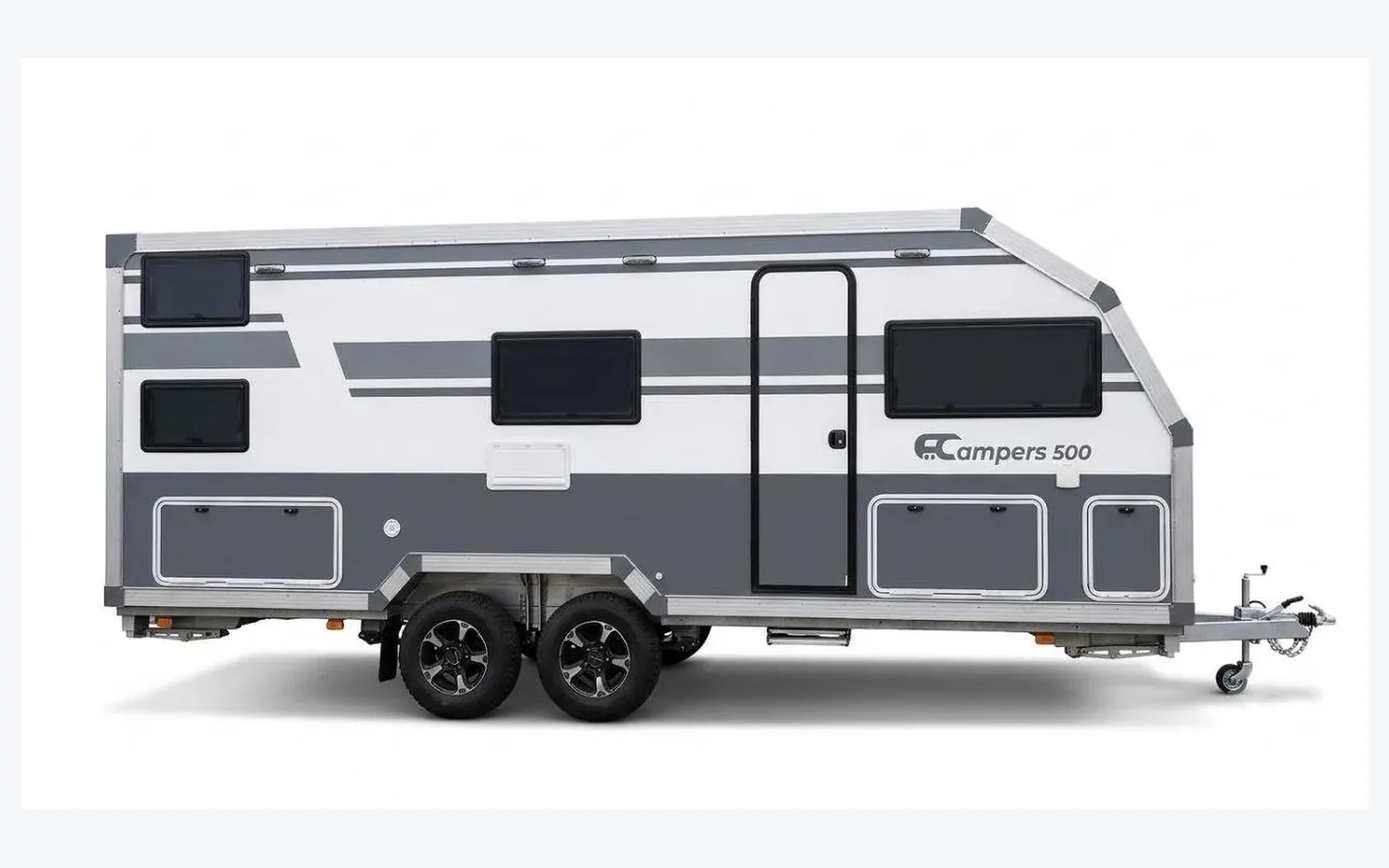
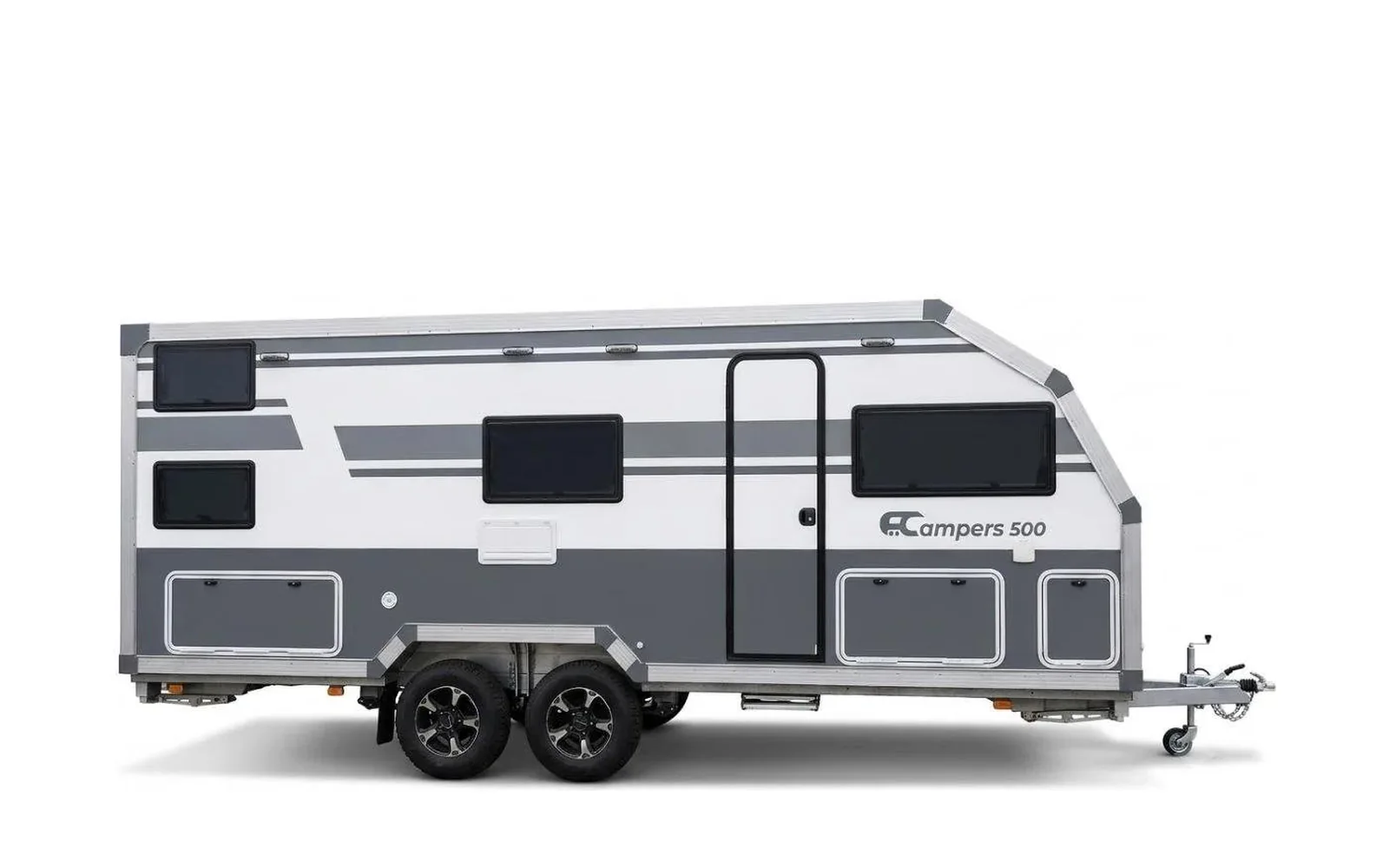
Series 500: reframe new photo to match series cards

diff --git a/configurator/index.html b/configurator/index.html
@@ -421,7 +421,7 @@ button{font:inherit;cursor:pointer}
 </div>
 <div id="printArea" class="print-only"></div>
 <script>
-const DATA = {"series": [{"code": "300", "module": 300, "price": 1750000, "features": ["Модуль 300 см", "2 боковых упора", "1 боковое окно", "Холодильник 50 л", "Мебель в базовой комплектации"], "photo": "assets/model-300.webp"}, {"code": "400", "module": 400, "price": 1950000, "features": ["Модуль 400 см", "2 боковых упора", "2 боковых окна", "Холодильник 65 л", "Мебель в базовой комплектации"], "photo": "assets/model-400.webp"}, {"code": "500", "module": 500, "price": 2950000, "features": ["Модуль 500 см", "4 боковых упора", "2 боковых окна", "Холодильник 65 л", "Мебель в базовой комплектации"], "photo": "assets/model-500-2.webp"}], "categories": [{"name": "Внешнее оборудование", "icon": "car", "options": [{"id": "o1", "name": "Толщина стены 50 мм", "unit": "шт", "prices": [144000, 144000, 144000], "note": ""}, {"id": "o2", "name": "Изменение длины, шаг 200 мм", "unit": "шаг", "prices": [35000, 35000, 35000], "note": ""}, {"id": "o3", "name": "Независимая подвеска на Ш-образных рычагах", "unit": "компл", "prices": [244000, 342000, 640000], "note": ""}, {"id": "o4", "name": "Пневмоподвеска, 1 ось / 2 подушки", "unit": "компл", "prices": [140000, 140000, 140000], "note": ""}, {"id": "o5", "name": "Пневмоподвеска, 2 оси / 4 подушки", "unit": "компл", "prices": [226500, 226500, 226500], "note": ""}, {"id": "o6", "name": "Колёса R16C 195/70, штампованные диски", "unit": "компл", "prices": [32000, 0, 0], "note": "для серии 300; для 400/500 — по запросу"}, {"id": "o7", "name": "Американский квадрат сзади, РДПП шасси", "unit": "шт", "prices": [38000, 38000, 38000], "note": ""}, {"id": "o8", "name": "Американский квадрат сзади, Ш-образные рычаги", "unit": "шт", "prices": [24000, 24000, 24000], "note": ""}, {"id": "o9", "name": "Боковые упоры, +2 шт", "unit": "шт", "prices": [22000, 22000, 22000], "note": ""}, {"id": "o10", "name": "Грузовой люк 600×320 мм", "unit": "шт", "prices": [24000, 24000, 24000], "note": ""}, {"id": "o11", "name": "Ступень механическая", "unit": "шт", "prices": [28000, 28000, 28000], "note": ""}, {"id": "o12", "name": "Кофр передний сэндвич для 2 угловых подвесок", "unit": "шт", "prices": [48000, 48000, 48000], "note": ""}]}, {"name": "Окна и люки", "icon": "window", "options": [{"id": "o13", "name": "Лобовое окно 1100×500", "unit": "шт", "max": 1, "prices": [62000, 62000, 62000], "note": ""}, {"id": "o14", "name": "Боковое / заднее окно 900×450", "unit": "шт", "prices": [45000, 45000, 45000], "note": ""}, {"id": "o15", "name": "Заднее окно / окно СУ 500×350", "unit": "шт", "max": 1, "prices": [35000, 35000, 35000], "note": ""}, {"id": "o16", "name": "Окно кухонной зоны 500×350", "unit": "шт", "prices": [37000, 37000, 37000], "note": ""}, {"id": "o17", "name": "Люк 400×400 накрышный, подсветка, москитная сетка", "unit": "шт", "prices": [26000, 26000, 26000], "note": ""}, {"id": "o18", "name": "Люк 700×500 накрышный, подсветка, москитная сетка", "unit": "шт", "prices": [59000, 59000, 59000], "note": ""}, {"id": "o19", "name": "Дверь с окном и москитной сеткой", "unit": "шт", "prices": [88000, 88000, 88000], "note": ""}, {"id": "o20", "name": "Москитная сетка сдвижная на дверь", "unit": "шт", "prices": [24000, 24000, 24000], "note": ""}]}, {"name": "Маркизы и кондиционеры", "icon": "awning", "options": [{"id": "o21", "name": "Маркиза кассетная, встроенные упоры", "unit": "шт", "prices": [156000, 176000, 0], "note": "500 — по запросу"}, {"id": "o22", "name": "Электропривод маркизы", "unit": "шт", "prices": [60000, 60000, 60000], "note": ""}, {"id": "o23", "name": "Кондиционер накрышный 1,5 кВт, 12 В", "unit": "шт", "prices": [68000, 68000, 68000], "note": ""}, {"id": "o24", "name": "Кондиционер инверторный накрышный 2,5 кВт, 12 В", "unit": "шт", "prices": [84000, 84000, 84000], "note": ""}]}, {"name": "Навесное оборудование", "icon": "tools", "options": [{"id": "o25", "name": "Столик уличный белый 800×450", "unit": "шт", "prices": [30800, 30800, 30800], "note": ""}, {"id": "o26", "name": "Розетка газовая под быстросъём", "unit": "шт", "prices": [22000, 22000, 22000], "note": ""}, {"id": "o27", "name": "Душ наружный", "unit": "шт", "prices": [14500, 14500, 14500], "note": ""}, {"id": "o28", "name": "Велобагажник на 2 велосипеда", "unit": "шт", "prices": [57200, 57200, 57200], "note": ""}, {"id": "o29", "name": "Ликпаз, 1 п.м", "unit": "п.м", "prices": [7000, 7000, 7000], "note": ""}]}, {"name": "Электрооборудование", "icon": "bolt", "options": [{"id": "o30", "name": "Солнечная панель 440–500 Вт с контроллером", "unit": "компл", "prices": [55000, 55000, 55000], "note": ""}, {"id": "o31", "name": "АКБ LiFePO4 280–310 Ач", "unit": "шт", "prices": [78000, 78000, 78000], "note": ""}, {"id": "o32", "name": "АКБ LiFePO4 150 Ач", "unit": "шт", "prices": [45000, 45000, 45000], "note": ""}, {"id": "o33", "name": "Внешняя розетка 220 В + 12 В + USB", "unit": "шт", "prices": [9200, 9200, 9200], "note": ""}, {"id": "o34", "name": "Задняя камера", "unit": "шт", "prices": [32000, 32000, 32000], "note": ""}, {"id": "o35", "name": "Внешняя газовая розетка", "unit": "шт", "prices": [7500, 7500, 7500], "note": ""}, {"id": "o36", "name": "Инвертор 1000 Вт (номинал 500 Вт)", "unit": "шт", "prices": [19000, 19000, 19000], "note": ""}, {"id": "o37", "name": "Инвертор 3000 Вт (номинал 1500 Вт)", "unit": "шт", "prices": [26000, 26000, 26000], "note": ""}, {"id": "o38", "name": "Инвертор 6000 Вт (номинал 3000 Вт)", "unit": "шт", "prices": [37000, 37000, 37000], "note": ""}]}, {"name": "Кухонная зона", "icon": "kitchen", "options": [{"id": "o39", "name": "Газовая конфорка, 1 шт", "unit": "шт", "prices": [24000, 24000, 24000], "note": ""}, {"id": "o40", "name": "Индукционная конфорка, 1 шт", "unit": "шт", "prices": [24000, 24000, 24000], "note": ""}, {"id": "o41", "name": "Две газовые конфорки", "unit": "компл", "prices": [32000, 32000, 32000], "note": ""}, {"id": "o42", "name": "Раковина с крышкой", "unit": "шт", "prices": [24000, 24000, 24000], "note": ""}, {"id": "o43", "name": "Вытяжка кухонная", "unit": "шт", "prices": [24200, 24200, 24200], "note": ""}, {"id": "o44", "name": "СВЧ-печь", "unit": "шт", "prices": [25000, 25000, 25000], "note": ""}, {"id": "o45", "name": "Стиральная машина", "unit": "шт", "prices": [55000, 55000, 55000], "note": ""}, {"id": "o46", "name": "Посудомоечная машина", "unit": "шт", "prices": [45000, 45000, 45000], "note": ""}]}, {"name": "Отопление, вода, газ", "icon": "drop", "options": [{"id": "o47", "name": "Комби-отопитель дизель + 220 В (отопление + бойлер)", "unit": "компл", "prices": [228000, 228000, 228000], "note": ""}, {"id": "o48", "name": "Бак дизель 22 л с датчиком", "unit": "шт", "prices": [38000, 38000, 38000], "note": ""}, {"id": "o49", "name": "Чехол для насоса отопителя (тихий)", "unit": "шт", "prices": [5600, 5600, 5600], "note": ""}, {"id": "o50", "name": "Насос 18,2 л/мин для забора воды снаружи", "unit": "шт", "prices": [28000, 28000, 28000], "note": ""}, {"id": "o51", "name": "Гидроаккумулятор 3 л", "unit": "шт", "prices": [16000, 16000, 16000], "note": ""}, {"id": "o52", "name": "Датчик уровня воды в баке", "unit": "шт", "prices": [15000, 15000, 15000], "note": ""}, {"id": "o53", "name": "Баллон композит 12 л", "unit": "шт", "prices": [16000, 16000, 16000], "note": ""}, {"id": "o54", "name": "Крепление баллона", "unit": "шт", "prices": [0, 0, 0], "note": "цена по запросу"}]}, {"name": "Санузел", "icon": "shower", "options": [{"id": "o55", "name": "Раковина откидная", "unit": "шт", "prices": [36000, 36000, 36000], "note": ""}, {"id": "o56", "name": "Раковина треугольная угловая", "unit": "шт", "prices": [36000, 36000, 36000], "note": ""}, {"id": "o57", "name": "Шкафчик на стену, пластик", "unit": "шт", "prices": [12000, 12000, 12000], "note": ""}, {"id": "o58", "name": "Раковина базовая прямоугольная", "unit": "шт", "prices": [18000, 18000, 18000], "note": ""}, {"id": "o59", "name": "Унитаз кассетный", "unit": "шт", "prices": [68000, 68000, 68000], "note": ""}, {"id": "o60", "name": "Унитаз портативный", "unit": "шт", "prices": [22000, 22000, 22000], "note": ""}]}, {"name": "Свет, розетки, ТВ, интернет", "icon": "lamp", "options": [{"id": "o61", "name": "Точечный светильник", "unit": "шт", "prices": [3500, 3500, 3500], "note": ""}, {"id": "o62", "name": "Лампа диодная круглая", "unit": "шт", "prices": [1800, 1800, 1800], "note": ""}, {"id": "o63", "name": "Розетка 220 В", "unit": "шт", "prices": [1800, 1800, 1800], "note": ""}, {"id": "o64", "name": "Розетка USB", "unit": "шт", "prices": [1500, 1500, 1500], "note": ""}, {"id": "o65", "name": "Розетка 12 В", "unit": "шт", "prices": [1500, 1500, 1500], "note": ""}, {"id": "o66", "name": "ТВ 24 дюйма, 12 В", "unit": "шт", "prices": [32000, 32000, 32000], "note": ""}, {"id": "o67", "name": "Крепление ТВ", "unit": "шт", "prices": [12000, 12000, 12000], "note": ""}, {"id": "o68", "name": "Роутер Wi-Fi 12 В", "unit": "шт", "prices": [6500, 6500, 6500], "note": ""}]}, {"name": "Напольное покрытие и шторки", "icon": "floor", "options": [{"id": "o69", "name": "Ева", "unit": "компл", "prices": [16000, 16000, 16000], "note": ""}, {"id": "o70", "name": "Кварцвинил", "unit": "компл", "prices": [56000, 56000, 56000], "note": ""}, {"id": "o71", "name": "Линолеум", "unit": "компл", "prices": [36000, 36000, 36000], "note": ""}, {"id": "o72", "name": "Шторка столовая группа", "unit": "шт", "prices": [14000, 14000, 14000], "note": ""}, {"id": "o73", "name": "Шторка детская зона", "unit": "шт", "prices": [14000, 14000, 14000], "note": ""}]}], "base": [{"name": "Шасси с горячим цинкованием", "q": [1, 1, 1], "note": "общая база"}, {"name": "Толщина стен 30 мм", "q": [1, 1, 1], "note": ""}, {"name": "Независимая рычажно-демпферная подвеска на полимерных элементах", "q": [1, 1, 1], "note": ""}, {"name": "Колёса R13C 185/70 (4×98), штампованные диски", "q": [1, 1, 1], "note": ""}, {"name": "Боковые упоры (опорные лапы)", "q": [2, 2, 4], "note": "шт"}, {"name": "Боковое окно 900×450", "q": [1, 2, 2], "note": "шт"}, {"name": "Люк 400×400, штора блэк-аут, москитная сетка", "q": [1, 1, 1], "note": "потолок столовой группы"}, {"name": "Люк 280×280, вентилятор, свет, москитная сетка", "q": [1, 1, 1], "note": "санузел"}, {"name": "Дверь сэндвич 30 мм, без окна", "q": [1, 1, 1], "note": ""}, {"name": "Внешняя розетка 220 В: вход, зарядка каравана", "q": [1, 1, 1], "note": ""}, {"name": "Вход для заправки воды", "q": [1, 1, 1], "note": ""}, {"name": "Подготовка под подключение солнечной панели", "q": [1, 1, 1], "note": ""}, {"name": "АКБ 150 Ач Pb", "q": [1, 1, 1], "note": ""}, {"name": "Зарядное устройство 20 А", "q": [1, 1, 1], "note": ""}, {"name": "Холодильник 50 л", "q": [1, 0, 0], "note": "только 300"}, {"name": "Холодильник 65 л", "q": [0, 1, 1], "note": "400 и 500"}, {"name": "Автономный дизельный отопитель 5 кВт", "q": [1, 1, 1], "note": ""}, {"name": "Бак дизель 15 л, встроен в шасси", "q": [1, 1, 1], "note": ""}, {"name": "Бойлер 12/220 В, 10 л", "q": [1, 1, 1], "note": ""}, {"name": "Бак для воды 65 л", "q": [1, 1, 1], "note": ""}, {"name": "Насос 11,7 л/мин с реле давления", "q": [1, 1, 1], "note": ""}, {"name": "Дверь санузла, глухая", "q": [1, 1, 1], "note": ""}, {"name": "Душевой поддон", "q": [1, 1, 1], "note": ""}, {"name": "Розетка 220 В", "q": [1, 1, 1], "note": ""}, {"name": "Розетка 12 В", "q": [1, 1, 1], "note": ""}, {"name": "Комбинация мебели: столовая группа, шкаф, кухня", "q": [1, 1, 1], "note": "цвет — по выбору"}]};
+const DATA = {"series": [{"code": "300", "module": 300, "price": 1750000, "features": ["Модуль 300 см", "2 боковых упора", "1 боковое окно", "Холодильник 50 л", "Мебель в базовой комплектации"], "photo": "assets/model-300.webp"}, {"code": "400", "module": 400, "price": 1950000, "features": ["Модуль 400 см", "2 боковых упора", "2 боковых окна", "Холодильник 65 л", "Мебель в базовой комплектации"], "photo": "assets/model-400.webp"}, {"code": "500", "module": 500, "price": 2950000, "features": ["Модуль 500 см", "4 боковых упора", "2 боковых окна", "Холодильник 65 л", "Мебель в базовой комплектации"], "photo": "assets/model-500-2.webp?v=2"}], "categories": [{"name": "Внешнее оборудование", "icon": "car", "options": [{"id": "o1", "name": "Толщина стены 50 мм", "unit": "шт", "prices": [144000, 144000, 144000], "note": ""}, {"id": "o2", "name": "Изменение длины, шаг 200 мм", "unit": "шаг", "prices": [35000, 35000, 35000], "note": ""}, {"id": "o3", "name": "Независимая подвеска на Ш-образных рычагах", "unit": "компл", "prices": [244000, 342000, 640000], "note": ""}, {"id": "o4", "name": "Пневмоподвеска, 1 ось / 2 подушки", "unit": "компл", "prices": [140000, 140000, 140000], "note": ""}, {"id": "o5", "name": "Пневмоподвеска, 2 оси / 4 подушки", "unit": "компл", "prices": [226500, 226500, 226500], "note": ""}, {"id": "o6", "name": "Колёса R16C 195/70, штампованные диски", "unit": "компл", "prices": [32000, 0, 0], "note": "для серии 300; для 400/500 — по запросу"}, {"id": "o7", "name": "Американский квадрат сзади, РДПП шасси", "unit": "шт", "prices": [38000, 38000, 38000], "note": ""}, {"id": "o8", "name": "Американский квадрат сзади, Ш-образные рычаги", "unit": "шт", "prices": [24000, 24000, 24000], "note": ""}, {"id": "o9", "name": "Боковые упоры, +2 шт", "unit": "шт", "prices": [22000, 22000, 22000], "note": ""}, {"id": "o10", "name": "Грузовой люк 600×320 мм", "unit": "шт", "prices": [24000, 24000, 24000], "note": ""}, {"id": "o11", "name": "Ступень механическая", "unit": "шт", "prices": [28000, 28000, 28000], "note": ""}, {"id": "o12", "name": "Кофр передний сэндвич для 2 угловых подвесок", "unit": "шт", "prices": [48000, 48000, 48000], "note": ""}]}, {"name": "Окна и люки", "icon": "window", "options": [{"id": "o13", "name": "Лобовое окно 1100×500", "unit": "шт", "max": 1, "prices": [62000, 62000, 62000], "note": ""}, {"id": "o14", "name": "Боковое / заднее окно 900×450", "unit": "шт", "prices": [45000, 45000, 45000], "note": ""}, {"id": "o15", "name": "Заднее окно / окно СУ 500×350", "unit": "шт", "max": 1, "prices": [35000, 35000, 35000], "note": ""}, {"id": "o16", "name": "Окно кухонной зоны 500×350", "unit": "шт", "prices": [37000, 37000, 37000], "note": ""}, {"id": "o17", "name": "Люк 400×400 накрышный, подсветка, москитная сетка", "unit": "шт", "prices": [26000, 26000, 26000], "note": ""}, {"id": "o18", "name": "Люк 700×500 накрышный, подсветка, москитная сетка", "unit": "шт", "prices": [59000, 59000, 59000], "note": ""}, {"id": "o19", "name": "Дверь с окном и москитной сеткой", "unit": "шт", "prices": [88000, 88000, 88000], "note": ""}, {"id": "o20", "name": "Москитная сетка сдвижная на дверь", "unit": "шт", "prices": [24000, 24000, 24000], "note": ""}]}, {"name": "Маркизы и кондиционеры", "icon": "awning", "options": [{"id": "o21", "name": "Маркиза кассетная, встроенные упоры", "unit": "шт", "prices": [156000, 176000, 0], "note": "500 — по запросу"}, {"id": "o22", "name": "Электропривод маркизы", "unit": "шт", "prices": [60000, 60000, 60000], "note": ""}, {"id": "o23", "name": "Кондиционер накрышный 1,5 кВт, 12 В", "unit": "шт", "prices": [68000, 68000, 68000], "note": ""}, {"id": "o24", "name": "Кондиционер инверторный накрышный 2,5 кВт, 12 В", "unit": "шт", "prices": [84000, 84000, 84000], "note": ""}]}, {"name": "Навесное оборудование", "icon": "tools", "options": [{"id": "o25", "name": "Столик уличный белый 800×450", "unit": "шт", "prices": [30800, 30800, 30800], "note": ""}, {"id": "o26", "name": "Розетка газовая под быстросъём", "unit": "шт", "prices": [22000, 22000, 22000], "note": ""}, {"id": "o27", "name": "Душ наружный", "unit": "шт", "prices": [14500, 14500, 14500], "note": ""}, {"id": "o28", "name": "Велобагажник на 2 велосипеда", "unit": "шт", "prices": [57200, 57200, 57200], "note": ""}, {"id": "o29", "name": "Ликпаз, 1 п.м", "unit": "п.м", "prices": [7000, 7000, 7000], "note": ""}]}, {"name": "Электрооборудование", "icon": "bolt", "options": [{"id": "o30", "name": "Солнечная панель 440–500 Вт с контроллером", "unit": "компл", "prices": [55000, 55000, 55000], "note": ""}, {"id": "o31", "name": "АКБ LiFePO4 280–310 Ач", "unit": "шт", "prices": [78000, 78000, 78000], "note": ""}, {"id": "o32", "name": "АКБ LiFePO4 150 Ач", "unit": "шт", "prices": [45000, 45000, 45000], "note": ""}, {"id": "o33", "name": "Внешняя розетка 220 В + 12 В + USB", "unit": "шт", "prices": [9200, 9200, 9200], "note": ""}, {"id": "o34", "name": "Задняя камера", "unit": "шт", "prices": [32000, 32000, 32000], "note": ""}, {"id": "o35", "name": "Внешняя газовая розетка", "unit": "шт", "prices": [7500, 7500, 7500], "note": ""}, {"id": "o36", "name": "Инвертор 1000 Вт (номинал 500 Вт)", "unit": "шт", "prices": [19000, 19000, 19000], "note": ""}, {"id": "o37", "name": "Инвертор 3000 Вт (номинал 1500 Вт)", "unit": "шт", "prices": [26000, 26000, 26000], "note": ""}, {"id": "o38", "name": "Инвертор 6000 Вт (номинал 3000 Вт)", "unit": "шт", "prices": [37000, 37000, 37000], "note": ""}]}, {"name": "Кухонная зона", "icon": "kitchen", "options": [{"id": "o39", "name": "Газовая конфорка, 1 шт", "unit": "шт", "prices": [24000, 24000, 24000], "note": ""}, {"id": "o40", "name": "Индукционная конфорка, 1 шт", "unit": "шт", "prices": [24000, 24000, 24000], "note": ""}, {"id": "o41", "name": "Две газовые конфорки", "unit": "компл", "prices": [32000, 32000, 32000], "note": ""}, {"id": "o42", "name": "Раковина с крышкой", "unit": "шт", "prices": [24000, 24000, 24000], "note": ""}, {"id": "o43", "name": "Вытяжка кухонная", "unit": "шт", "prices": [24200, 24200, 24200], "note": ""}, {"id": "o44", "name": "СВЧ-печь", "unit": "шт", "prices": [25000, 25000, 25000], "note": ""}, {"id": "o45", "name": "Стиральная машина", "unit": "шт", "prices": [55000, 55000, 55000], "note": ""}, {"id": "o46", "name": "Посудомоечная машина", "unit": "шт", "prices": [45000, 45000, 45000], "note": ""}]}, {"name": "Отопление, вода, газ", "icon": "drop", "options": [{"id": "o47", "name": "Комби-отопитель дизель + 220 В (отопление + бойлер)", "unit": "компл", "prices": [228000, 228000, 228000], "note": ""}, {"id": "o48", "name": "Бак дизель 22 л с датчиком", "unit": "шт", "prices": [38000, 38000, 38000], "note": ""}, {"id": "o49", "name": "Чехол для насоса отопителя (тихий)", "unit": "шт", "prices": [5600, 5600, 5600], "note": ""}, {"id": "o50", "name": "Насос 18,2 л/мин для забора воды снаружи", "unit": "шт", "prices": [28000, 28000, 28000], "note": ""}, {"id": "o51", "name": "Гидроаккумулятор 3 л", "unit": "шт", "prices": [16000, 16000, 16000], "note": ""}, {"id": "o52", "name": "Датчик уровня воды в баке", "unit": "шт", "prices": [15000, 15000, 15000], "note": ""}, {"id": "o53", "name": "Баллон композит 12 л", "unit": "шт", "prices": [16000, 16000, 16000], "note": ""}, {"id": "o54", "name": "Крепление баллона", "unit": "шт", "prices": [0, 0, 0], "note": "цена по запросу"}]}, {"name": "Санузел", "icon": "shower", "options": [{"id": "o55", "name": "Раковина откидная", "unit": "шт", "prices": [36000, 36000, 36000], "note": ""}, {"id": "o56", "name": "Раковина треугольная угловая", "unit": "шт", "prices": [36000, 36000, 36000], "note": ""}, {"id": "o57", "name": "Шкафчик на стену, пластик", "unit": "шт", "prices": [12000, 12000, 12000], "note": ""}, {"id": "o58", "name": "Раковина базовая прямоугольная", "unit": "шт", "prices": [18000, 18000, 18000], "note": ""}, {"id": "o59", "name": "Унитаз кассетный", "unit": "шт", "prices": [68000, 68000, 68000], "note": ""}, {"id": "o60", "name": "Унитаз портативный", "unit": "шт", "prices": [22000, 22000, 22000], "note": ""}]}, {"name": "Свет, розетки, ТВ, интернет", "icon": "lamp", "options": [{"id": "o61", "name": "Точечный светильник", "unit": "шт", "prices": [3500, 3500, 3500], "note": ""}, {"id": "o62", "name": "Лампа диодная круглая", "unit": "шт", "prices": [1800, 1800, 1800], "note": ""}, {"id": "o63", "name": "Розетка 220 В", "unit": "шт", "prices": [1800, 1800, 1800], "note": ""}, {"id": "o64", "name": "Розетка USB", "unit": "шт", "prices": [1500, 1500, 1500], "note": ""}, {"id": "o65", "name": "Розетка 12 В", "unit": "шт", "prices": [1500, 1500, 1500], "note": ""}, {"id": "o66", "name": "ТВ 24 дюйма, 12 В", "unit": "шт", "prices": [32000, 32000, 32000], "note": ""}, {"id": "o67", "name": "Крепление ТВ", "unit": "шт", "prices": [12000, 12000, 12000], "note": ""}, {"id": "o68", "name": "Роутер Wi-Fi 12 В", "unit": "шт", "prices": [6500, 6500, 6500], "note": ""}]}, {"name": "Напольное покрытие и шторки", "icon": "floor", "options": [{"id": "o69", "name": "Ева", "unit": "компл", "prices": [16000, 16000, 16000], "note": ""}, {"id": "o70", "name": "Кварцвинил", "unit": "компл", "prices": [56000, 56000, 56000], "note": ""}, {"id": "o71", "name": "Линолеум", "unit": "компл", "prices": [36000, 36000, 36000], "note": ""}, {"id": "o72", "name": "Шторка столовая группа", "unit": "шт", "prices": [14000, 14000, 14000], "note": ""}, {"id": "o73", "name": "Шторка детская зона", "unit": "шт", "prices": [14000, 14000, 14000], "note": ""}]}], "base": [{"name": "Шасси с горячим цинкованием", "q": [1, 1, 1], "note": "общая база"}, {"name": "Толщина стен 30 мм", "q": [1, 1, 1], "note": ""}, {"name": "Независимая рычажно-демпферная подвеска на полимерных элементах", "q": [1, 1, 1], "note": ""}, {"name": "Колёса R13C 185/70 (4×98), штампованные диски", "q": [1, 1, 1], "note": ""}, {"name": "Боковые упоры (опорные лапы)", "q": [2, 2, 4], "note": "шт"}, {"name": "Боковое окно 900×450", "q": [1, 2, 2], "note": "шт"}, {"name": "Люк 400×400, штора блэк-аут, москитная сетка", "q": [1, 1, 1], "note": "потолок столовой группы"}, {"name": "Люк 280×280, вентилятор, свет, москитная сетка", "q": [1, 1, 1], "note": "санузел"}, {"name": "Дверь сэндвич 30 мм, без окна", "q": [1, 1, 1], "note": ""}, {"name": "Внешняя розетка 220 В: вход, зарядка каравана", "q": [1, 1, 1], "note": ""}, {"name": "Вход для заправки воды", "q": [1, 1, 1], "note": ""}, {"name": "Подготовка под подключение солнечной панели", "q": [1, 1, 1], "note": ""}, {"name": "АКБ 150 Ач Pb", "q": [1, 1, 1], "note": ""}, {"name": "Зарядное устройство 20 А", "q": [1, 1, 1], "note": ""}, {"name": "Холодильник 50 л", "q": [1, 0, 0], "note": "только 300"}, {"name": "Холодильник 65 л", "q": [0, 1, 1], "note": "400 и 500"}, {"name": "Автономный дизельный отопитель 5 кВт", "q": [1, 1, 1], "note": ""}, {"name": "Бак дизель 15 л, встроен в шасси", "q": [1, 1, 1], "note": ""}, {"name": "Бойлер 12/220 В, 10 л", "q": [1, 1, 1], "note": ""}, {"name": "Бак для воды 65 л", "q": [1, 1, 1], "note": ""}, {"name": "Насос 11,7 л/мин с реле давления", "q": [1, 1, 1], "note": ""}, {"name": "Дверь санузла, глухая", "q": [1, 1, 1], "note": ""}, {"name": "Душевой поддон", "q": [1, 1, 1], "note": ""}, {"name": "Розетка 220 В", "q": [1, 1, 1], "note": ""}, {"name": "Розетка 12 В", "q": [1, 1, 1], "note": ""}, {"name": "Комбинация мебели: столовая группа, шкаф, кухня", "q": [1, 1, 1], "note": "цвет — по выбору"}]};
 const CONTACT_PHONE = "+7 (499) 638-24-05";
 const CONTACT_EMAIL = "familycampers@ya.ru";
 const STORE_KEY = "fcampers-config-v1";

diff --git a/index.html b/index.html
@@ -142,7 +142,7 @@
           </div>
         </article>
         <article class="series-card reveal">
-          <img class="series-photo" src="assets/img/model-500-2.webp" alt="Караван FCampers серии 500" loading="lazy" width="1600" height="1000">
+          <img class="series-photo" src="assets/img/model-500-2.webp?v=2" alt="Караван FCampers серии 500" loading="lazy" width="1600" height="1000">
           <div class="p-6 flex flex-col grow">
             <h3 class="text-xl font-extrabold">Серия 500</h3>
             <p class="text-sm text-muted mt-1">Максимум пространства</p>
